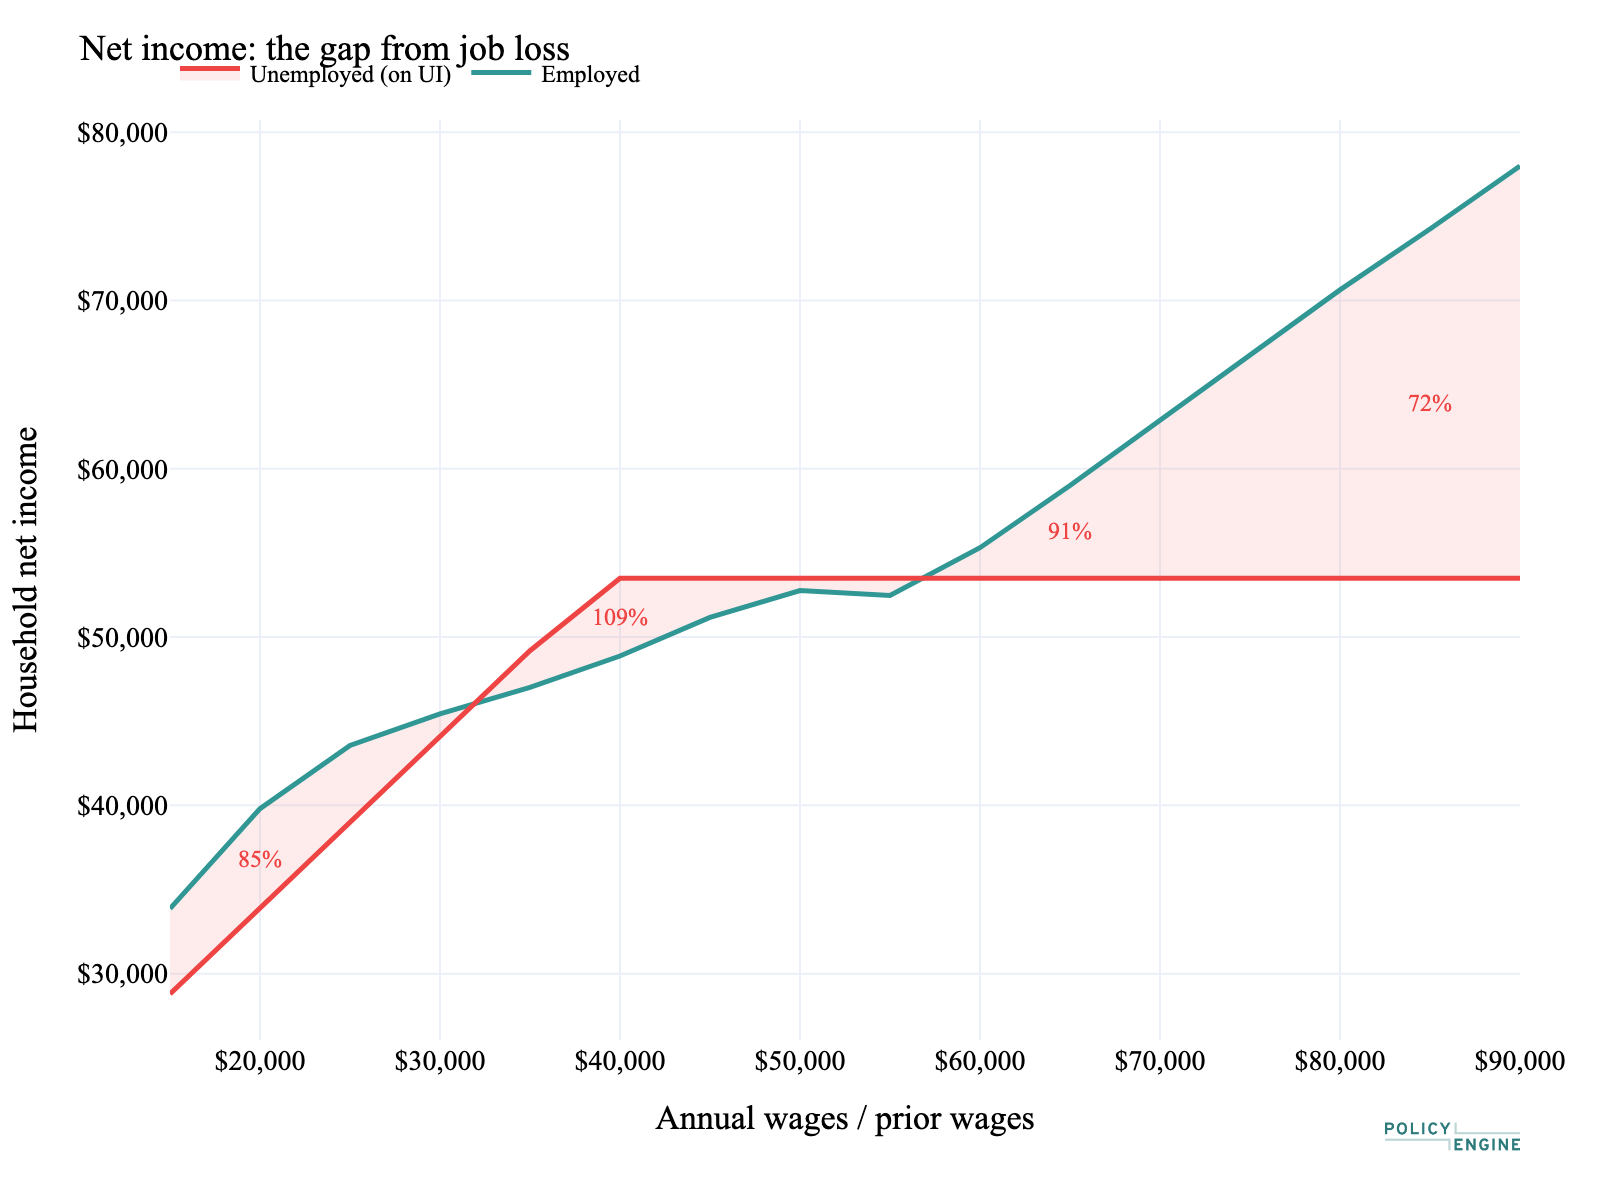
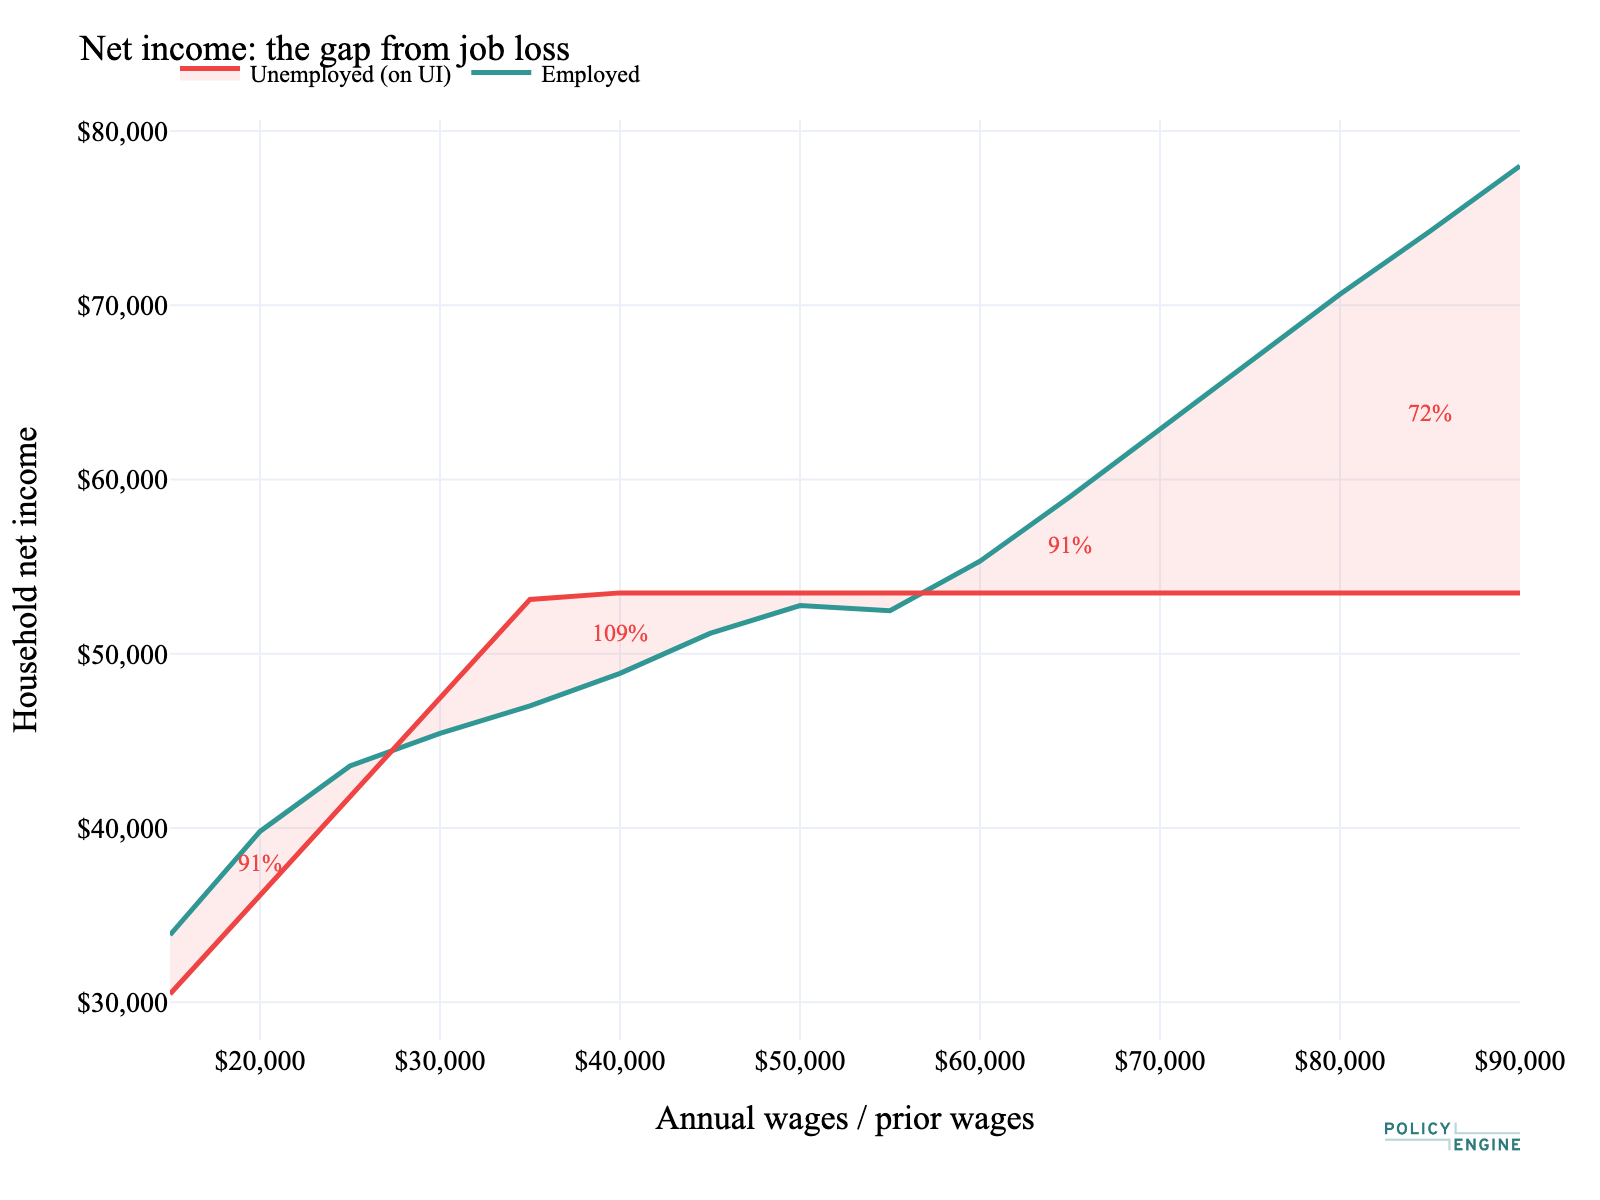
Use single-pass approach for benefit interaction charts
Now that nj_unemployment_insurance feeds into unemployment_compensation
via adds, remove the two-pass workaround (calc_ui + manual input).
The simulation computes NJ UI and its downstream effects in one pass.

diff --git a/us/states/nj/benefit_interactions/nj_ui_benefit_interactions.py b/us/states/nj/benefit_interactions/nj_ui_benefit_interactions.py
@@ -3,8 +3,8 @@
 Models a single parent with 2 children (ages 8, 5), head of household.
 Compares employed vs unemployed (on NJ UI) across wage levels.
 
-Note: nj_unemployment_insurance doesn't feed into unemployment_compensation,
-so we compute NJ UI separately and pass it as unemployment_compensation input.
+Single-pass: nj_unemployment_insurance flows through to
+unemployment_compensation automatically via the adds wiring.
 
 Generates 4 charts:
   1. Employed: income + benefits stack
@@ -16,9 +16,10 @@ Generates 4 charts:
 import sys
 import os
 
-sys.path.insert(0, os.path.dirname(os.path.dirname(os.path.abspath(__file__))))
+sys.path.insert(
+    0, os.path.dirname(os.path.dirname(os.path.abspath(__file__)))
+)
 import plotly.graph_objects as go
-import numpy as np
 from pe_chart_utils import *
 from policyengine_us import CountryTaxBenefitSystem
 from policyengine_core.simulations import SimulationBuilder
@@ -27,50 +28,27 @@ YEAR = 2026
 OUT = os.path.dirname(os.path.abspath(__file__))
 
 
-def make_system():
-    return CountryTaxBenefitSystem()
-
-
-def calc_ui(base_wages):
-    system = make_system()
-    sit = {
-        "people": {
-            "a": {
-                "age": {YEAR: 35},
-                "is_tax_unit_dependent": {YEAR: False},
-                "nj_unemployment_insurance_base_period_weeks": {
-                    YEAR: 26
-                },
-                "nj_unemployment_insurance_base_period_wages": {
-                    YEAR: base_wages
-                },
-                "nj_unemployment_insurance_weeks_claimed": {
-                    YEAR: 26
-                },
-            }
-        },
-        "tax_units": {"t": {"members": ["a"]}},
-        "spm_units": {"s": {"members": ["a"]}},
-        "households": {
-            "h": {"members": ["a"], "state_code": {YEAR: "NJ"}}
-        },
-    }
-    sim = SimulationBuilder().build_from_dict(system, sit)
-    return float(
-        sim.calculate("nj_unemployment_insurance", YEAR)[0]
-    )
-
-
-def make_hh(employment_income=0, unemployment_comp=0):
-    system = make_system()
+def make_hh(
+    employment_income=0,
+    bp_wages=0,
+    bp_weeks=0,
+    weeks_claimed=0,
+):
+    system = CountryTaxBenefitSystem()
     sit = {
         "people": {
             "parent": {
                 "age": {YEAR: 35},
                 "is_tax_unit_dependent": {YEAR: False},
                 "employment_income": {YEAR: employment_income},
-                "unemployment_compensation": {
-                    YEAR: unemployment_comp
+                "nj_unemployment_insurance_base_period_wages": {
+                    YEAR: bp_wages
+                },
+                "nj_unemployment_insurance_base_period_weeks": {
+                    YEAR: bp_weeks
+                },
+                "nj_unemployment_insurance_weeks_claimed": {
+                    YEAR: weeks_claimed
                 },
             },
             "child1": {
@@ -103,7 +81,11 @@ def make_hh(employment_income=0, unemployment_comp=0):
     }
     sim = SimulationBuilder().build_from_dict(system, sit)
     return {
-        "ui": unemployment_comp,
+        "ui": float(
+            sim.calculate(
+                "nj_unemployment_insurance", YEAR
+            )[0]
+        ),
         "emp": employment_income,
         "eitc": float(sim.calculate("eitc", YEAR)[0]),
         "ctc": float(sim.calculate("ctc", YEAR)[0]),
@@ -112,7 +94,9 @@ def make_hh(employment_income=0, unemployment_comp=0):
             sim.calculate("free_school_meals", YEAR)[0]
         )
         + float(
-            sim.calculate("reduced_price_school_meals", YEAR)[0]
+            sim.calculate("reduced_price_school_meals", YEAR)[
+                0
+            ]
         ),
         "hh_net": float(
             sim.calculate("household_net_income", YEAR)[0]
@@ -121,20 +105,37 @@ def make_hh(employment_income=0, unemployment_comp=0):
 
 
 wages = list(range(15000, 90001, 5000))
-print("Computing UI amounts...")
-ui_amts = {w: calc_ui(w) for w in wages}
 print("Computing employed households...")
 emp = [make_hh(employment_income=w) for w in wages]
 print("Computing unemployed households...")
-unemp = [make_hh(unemployment_comp=ui_amts[w]) for w in wages]
+unemp = [
+    make_hh(bp_wages=w, bp_weeks=26, weeks_claimed=26)
+    for w in wages
+]
 
 # Chart 1: Stacked employed
 fig1 = go.Figure()
 layers = [
-    ([e["emp"] for e in emp], "rgba(49,151,149,0.8)", "Earnings"),
-    ([e["eitc"] for e in emp], "rgba(34,197,94,0.8)", "EITC"),
-    ([e["ctc"] for e in emp], "rgba(14,165,233,0.8)", "CTC"),
-    ([e["snap"] for e in emp], "rgba(40,94,97,0.8)", "SNAP"),
+    (
+        [e["emp"] for e in emp],
+        "rgba(49,151,149,0.8)",
+        "Earnings",
+    ),
+    (
+        [e["eitc"] for e in emp],
+        "rgba(34,197,94,0.8)",
+        "EITC",
+    ),
+    (
+        [e["ctc"] for e in emp],
+        "rgba(14,165,233,0.8)",
+        "CTC",
+    ),
+    (
+        [e["snap"] for e in emp],
+        "rgba(40,94,97,0.8)",
+        "SNAP",
+    ),
     (
         [e["meals"] for e in emp],
         "rgba(107,114,128,0.8)",
@@ -150,14 +151,21 @@ for vals, color, name in layers:
             name=name,
             line=dict(width=0.5, color=color),
             fillcolor=color,
-            hovertemplate=f"{name}: $%{{y:,.0f}}<extra></extra>",
+            hovertemplate=(
+                f"{name}: $%{{y:,.0f}}<extra></extra>"
+            ),
         )
     )
 fig1 = format_fig(fig1, "Employed: income + benefits stack")
 fig1.update_xaxes(title="Annual wages", tickformat="$,.0f")
-fig1.update_yaxes(title="Total resources", tickformat="$,.0f")
+fig1.update_yaxes(
+    title="Total resources", tickformat="$,.0f"
+)
 fig1.write_image(
-    os.path.join(OUT, "employed_income_and_benefits_stack.png"), scale=2
+    os.path.join(
+        OUT, "employed_income_and_benefits_stack.png"
+    ),
+    scale=2,
 )
 
 # Chart 2: Stacked unemployed
@@ -198,14 +206,21 @@ for vals, color, name in layers2:
             name=name,
             line=dict(width=0.5, color=color),
             fillcolor=color,
-            hovertemplate=f"{name}: $%{{y:,.0f}}<extra></extra>",
+            hovertemplate=(
+                f"{name}: $%{{y:,.0f}}<extra></extra>"
+            ),
         )
     )
 fig2 = format_fig(fig2, "Unemployed on UI: benefits stack")
-fig2.update_xaxes(title="Prior annual wages", tickformat="$,.0f")
-fig2.update_yaxes(title="Total resources", tickformat="$,.0f")
+fig2.update_xaxes(
+    title="Prior annual wages", tickformat="$,.0f"
+)
+fig2.update_yaxes(
+    title="Total resources", tickformat="$,.0f"
+)
 fig2.write_image(
-    os.path.join(OUT, "unemployed_benefits_stack.png"), scale=2
+    os.path.join(OUT, "unemployed_benefits_stack.png"),
+    scale=2,
 )
 
 # Chart 3: Net income gap
@@ -246,28 +261,40 @@ for idx in [1, 5, 10, 14]:
             showarrow=False,
             font=dict(color=RED, size=12, family=FONT),
         )
-fig3 = format_fig(fig3, "Net income: the gap from job loss")
+fig3 = format_fig(
+    fig3, "Net income: the gap from job loss"
+)
 fig3.update_xaxes(
-    title="Annual wages / prior wages", tickformat="$,.0f"
+    title="Annual wages / prior wages",
+    tickformat="$,.0f",
 )
 fig3.update_yaxes(
     title="Household net income", tickformat="$,.0f"
 )
 fig3.write_image(
-    os.path.join(OUT, "net_income_gap_employed_vs_unemployed.png"), scale=2
+    os.path.join(
+        OUT,
+        "net_income_gap_employed_vs_unemployed.png",
+    ),
+    scale=2,
 )
 
 # Chart 4: Benefit deltas
 fig4 = go.Figure()
 d_eitc = [
-    u["eitc"] - e["eitc"] for u, e in zip(unemp, emp)
+    u["eitc"] - e["eitc"]
+    for u, e in zip(unemp, emp)
 ]
 d_snap = [
-    u["snap"] - e["snap"] for u, e in zip(unemp, emp)
+    u["snap"] - e["snap"]
+    for u, e in zip(unemp, emp)
 ]
-d_ctc = [u["ctc"] - e["ctc"] for u, e in zip(unemp, emp)]
+d_ctc = [
+    u["ctc"] - e["ctc"] for u, e in zip(unemp, emp)
+]
 d_meals = [
-    u["meals"] - e["meals"] for u, e in zip(unemp, emp)
+    u["meals"] - e["meals"]
+    for u, e in zip(unemp, emp)
 ]
 fig4.add_trace(
     go.Scatter(
@@ -307,7 +334,8 @@ fig4.add_trace(
 )
 fig4.add_hline(y=0, line_dash="dot", line_color=GRAY_LIGHTER)
 fig4 = format_fig(
-    fig4, "How other benefits shift when you lose your job"
+    fig4,
+    "How other benefits shift when you lose your job",
 )
 fig4.update_xaxes(title="Wage level", tickformat="$,.0f")
 fig4.update_yaxes(
@@ -315,7 +343,10 @@ fig4.update_yaxes(
     tickformat="$,.0f",
 )
 fig4.write_image(
-    os.path.join(OUT, "benefit_deltas_from_job_loss.png"), scale=2
+    os.path.join(
+        OUT, "benefit_deltas_from_job_loss.png"
+    ),
+    scale=2,
 )
 
 print("Done — 4 interaction charts saved")
